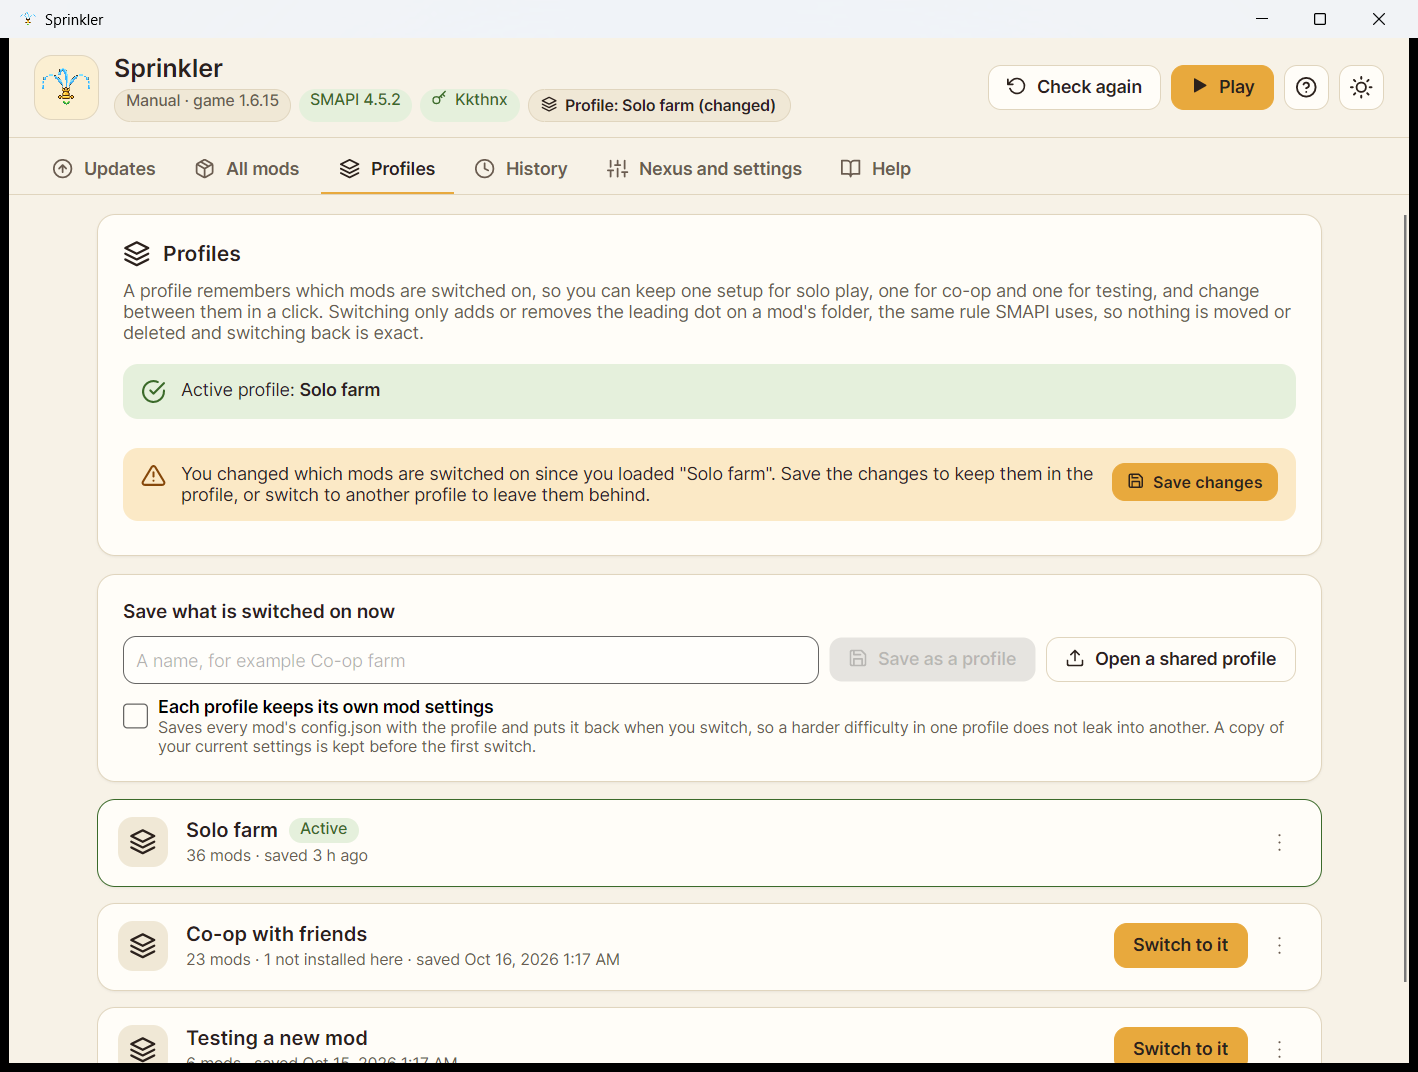
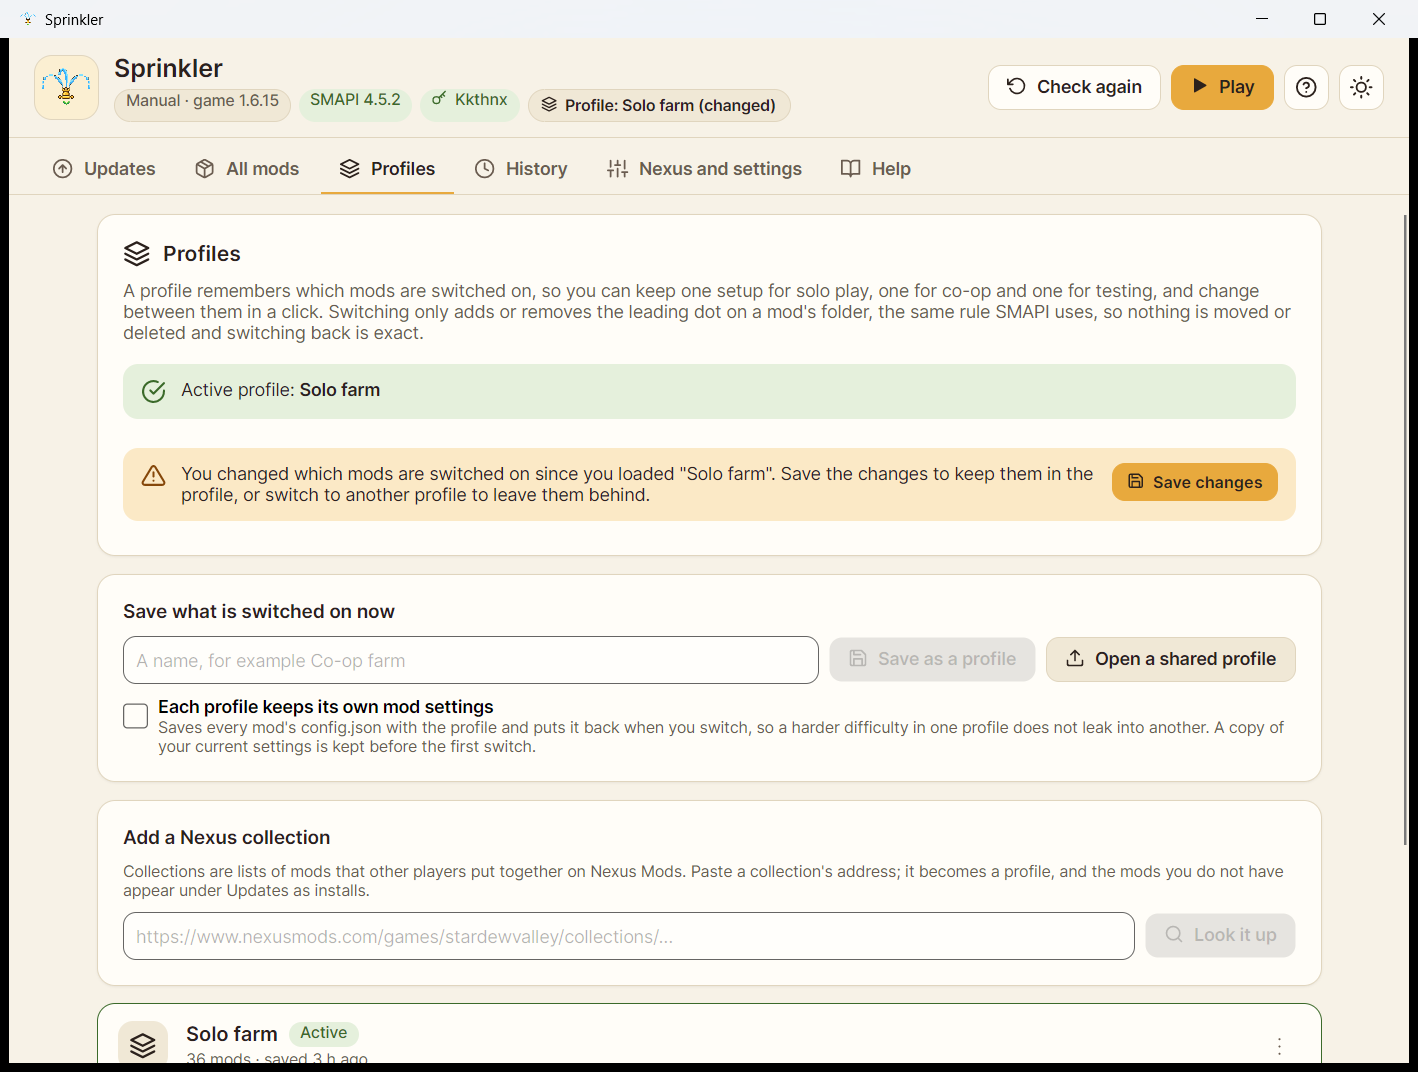
Add the Nexus collection screen
The Profiles tab has an Add a Nexus collection box. Pasting an address
and pressing Look it up shows a preview with the collection's name,
curator, summary, how many mods it holds and how many are already
installed, plus a checkbox for the optional mods and a plain sentence
about what will appear under Updates. Cancel adds nothing. A collection
profile is marked with its curator and shows how many mods are left to
install, and its menu can stop offering the rest.

The query was checked against the live Nexus API: the exact request
returns a real 71-mod collection with no errors. Four UI tests cover
the preview, cancelling, a bad address and stopping the installs. The
README, FAQ, changelog and architecture page describe collections.

diff --git a/tests/Sprinkler.Tests/UiTests.cs b/tests/Sprinkler.Tests/UiTests.cs
@@ -403,3 +403,120 @@ public class UiTests
         Assert.Equal("Remove my endorsement", row.EndorseText);
     }
 }
+
+public class CollectionUiTests
+{
+    private const string Reply = """
+        {"data":{"collectionRevision":{"revisionNumber":3,"collection":{"name":"Cozy Valley","summary":"A gentle set of mods.","user":{"name":"curator1"}},"modFiles":[
+          {"fileId":10,"optional":false,"file":{"fileId":10,"name":"a","version":"1.0.0","mod":{"modId":100,"name":"Alpha","author":"A"}}},
+          {"fileId":20,"optional":false,"file":{"fileId":20,"name":"b","version":"2.0.0","mod":{"modId":200,"name":"Beta","author":"B"}}},
+          {"fileId":30,"optional":true,"file":{"fileId":30,"name":"c","version":"3.0.0","mod":{"modId":300,"name":"Gamma","author":"C"}}}]}}}
+        """;
+
+    private static async Task<(ProfileServiceTests.Rig Rig, MainViewModel Vm)> StartAsync()
+    {
+        var rig = new ProfileServiceTests.Rig();
+        rig.Web.Handler = (path, _) => path switch
+        {
+            "/smapi" => FakeWeb.Json("[]"),
+            "/graphql" => FakeWeb.Json(Reply),
+            _ => null,
+        };
+        await rig.StartAsync();
+        var vm = new MainViewModel(rig.Service) { Ui = new FakeUi(), SuppressTour = true };
+        vm.Refresh();
+        return (rig, vm);
+    }
+
+    private static async Task SettleAsync(MainViewModel vm, Func<bool> until)
+    {
+        var end = DateTime.UtcNow.AddSeconds(10);
+        while (DateTime.UtcNow < end)
+        {
+            Dispatcher.UIThread.RunJobs();
+            vm.Refresh();
+            if (until())
+                return;
+            await Task.Delay(50);
+        }
+        Assert.True(until(), "The screen never reached the expected state.");
+    }
+
+    [AvaloniaFact]
+    public async Task APastedAddressShowsAPreviewAndAddingMakesAProfile()
+    {
+        var (rig, vm) = await StartAsync();
+        using var _r = rig;
+        Assert.False(vm.CanLookUp);
+        vm.CollectionAddress = "https://www.nexusmods.com/games/stardewvalley/collections/abc123";
+        Assert.True(vm.CanLookUp);
+
+        var lookup = vm.LookUpCollectionCommand.ExecuteAsync(null);
+        await SettleAsync(vm, () => vm.Dialog is CollectionPreviewDialogViewModel);
+        var preview = (CollectionPreviewDialogViewModel)vm.Dialog!;
+        Assert.Equal("Cozy Valley", preview.Title);
+        Assert.Equal("by curator1", preview.Curator);
+        Assert.Contains("2 mods", preview.Counts);
+        Assert.Contains("1 optional mod", preview.Counts);
+        Assert.Contains("2 mods will appear", preview.ToInstallText);
+
+        preview.IncludeOptional = true;
+        Assert.Contains("3 mods will appear", preview.ToInstallText);
+        preview.AddCommand.Execute(null);
+        await lookup;
+        await SettleAsync(vm, () => vm.ProfileList.Count == 1);
+
+        var profile = vm.ProfileList[0];
+        Assert.True(profile.IsCollection);
+        Assert.Equal("Nexus collection by curator1", profile.CollectionText);
+        Assert.Contains("3 to install under Updates", profile.Detail);
+        Assert.Equal("", vm.CollectionAddress);
+        Assert.False(profile.IsActive); // adding never switches mods
+        Assert.Contains(vm.Toasts, t => t.Text.Contains("Cozy Valley"));
+    }
+
+    [AvaloniaFact]
+    public async Task CancellingThePreviewAddsNothing()
+    {
+        var (rig, vm) = await StartAsync();
+        using var _r = rig;
+        vm.CollectionAddress = "abc123";
+        var lookup = vm.LookUpCollectionCommand.ExecuteAsync(null);
+        await SettleAsync(vm, () => vm.Dialog is CollectionPreviewDialogViewModel);
+        ((CollectionPreviewDialogViewModel)vm.Dialog!).CancelCommand.Execute(null);
+        await lookup;
+
+        Assert.Empty(vm.ProfileList);
+        Assert.Equal("abc123", vm.CollectionAddress); // still there to edit
+    }
+
+    [AvaloniaFact]
+    public async Task ABadAddressGivesAMessageNotADialog()
+    {
+        var (rig, vm) = await StartAsync();
+        using var _r = rig;
+        vm.CollectionAddress = "this is not a collection";
+        await vm.LookUpCollectionCommand.ExecuteAsync(null);
+        Assert.Null(vm.Dialog);
+        Assert.Contains(vm.Toasts, t => t.IsBad && t.Text.Contains("Paste the collection"));
+        Assert.False(vm.LookingUp);
+    }
+
+    [AvaloniaFact]
+    public async Task StoppingTheInstallsFromTheMenuClearsThePendingNote()
+    {
+        var (rig, vm) = await StartAsync();
+        using var _r = rig;
+        vm.CollectionAddress = "abc123";
+        var lookup = vm.LookUpCollectionCommand.ExecuteAsync(null);
+        await SettleAsync(vm, () => vm.Dialog is CollectionPreviewDialogViewModel);
+        ((CollectionPreviewDialogViewModel)vm.Dialog!).AddCommand.Execute(null);
+        await lookup;
+        await SettleAsync(vm, () => vm.ProfileList.Count == 1);
+        Assert.True(vm.ProfileList[0].Pending);
+
+        vm.ProfileList[0].StopInstallingCommand.Execute(null);
+        await SettleAsync(vm, () => !vm.ProfileList[0].Pending);
+        Assert.DoesNotContain("to install", vm.ProfileList[0].Detail);
+    }
+}

diff --git a/src/Sprinkler/ViewModels/SmallViewModels.cs b/src/Sprinkler/ViewModels/SmallViewModels.cs
@@ -214,3 +214,68 @@ internal sealed partial class TextPromptDialogViewModel : DialogViewModel
         Close();
     }
 }
+
+/// <summary>Shows what a Nexus collection holds before it is added, and asks whether to include its optional mods.</summary>
+internal sealed partial class CollectionPreviewDialogViewModel : DialogViewModel
+{
+    private readonly TaskCompletionSource<bool?> _result = new();
+
+    public CollectionPreviewDialogViewModel(CollectionPreview preview)
+    {
+        Preview = preview;
+    }
+
+    public CollectionPreview Preview { get; }
+
+    public string Title => Preview.Name;
+    public string Curator => Preview.Curator is null ? "" : "by " + Preview.Curator;
+    public bool HasCurator => Preview.Curator is not null;
+    public string? Summary => Preview.Summary;
+    public bool HasSummary => !string.IsNullOrEmpty(Preview.Summary);
+    public bool HasOptional => Preview.Optional > 0;
+
+    public string Counts
+    {
+        get
+        {
+            var line = $"{Fmt.Plural(Preview.Required, "mod", "mods")}, {Preview.RequiredInstalled} already installed.";
+            if (Preview.Optional > 0)
+                line += $" Plus {Fmt.Plural(Preview.Optional, "optional mod", "optional mods")}.";
+            return line;
+        }
+    }
+
+    public string ToInstallText
+    {
+        get
+        {
+            var missing = Preview.Required - Preview.RequiredInstalled + (IncludeOptional ? Preview.Optional - Preview.OptionalInstalled : 0);
+            return missing == 0
+                ? "Everything in it is already installed. The profile only remembers the list."
+                : $"{Fmt.Plural(missing, "mod", "mods")} will appear under Updates as installs. Nothing is changed until you press Update there.";
+        }
+    }
+
+    public string OptionalText => $"Also add the {Fmt.Plural(Preview.Optional, "optional mod", "optional mods")}";
+
+    [ObservableProperty]
+    [NotifyPropertyChangedFor(nameof(ToInstallText))]
+    private bool _includeOptional;
+
+    /// <summary>Null when cancelled, otherwise whether to include the optional mods.</summary>
+    public Task<bool?> Result => _result.Task;
+
+    [RelayCommand]
+    private void Add()
+    {
+        _result.TrySetResult(IncludeOptional);
+        Close();
+    }
+
+    [RelayCommand]
+    public void Cancel()
+    {
+        _result.TrySetResult(null);
+        Close();
+    }
+}

diff --git a/src/Sprinkler/ViewModels/MainViewModel.Collections.cs b/src/Sprinkler/ViewModels/MainViewModel.Collections.cs
@@ -1,0 +1,62 @@
+using CommunityToolkit.Mvvm.ComponentModel;
+using CommunityToolkit.Mvvm.Input;
+using Sprinkler.Core;
+
+namespace Sprinkler.ViewModels;
+
+// Adding a Nexus collection from the Profiles tab.
+internal sealed partial class MainViewModel
+{
+    [ObservableProperty]
+    [NotifyPropertyChangedFor(nameof(CanLookUp))]
+    private string _collectionAddress = "";
+
+    [ObservableProperty]
+    [NotifyPropertyChangedFor(nameof(CanLookUp), nameof(LookUpText))]
+    private bool _lookingUp;
+
+    public bool CanLookUp => HasGame && !LookingUp && !string.IsNullOrWhiteSpace(CollectionAddress);
+    public string LookUpText => LookingUp ? "Looking it up..." : "Look it up";
+
+    [RelayCommand]
+    private async Task LookUpCollection()
+    {
+        LookingUp = true;
+        try
+        {
+            CollectionRevision collection;
+            try
+            {
+                collection = await _svc.LookUpCollectionAsync(CollectionAddress);
+            }
+            catch (CollectionException ex)
+            {
+                Toast(ex.Message, true);
+                return;
+            }
+
+            var dialog = new CollectionPreviewDialogViewModel(_svc.PreviewCollection(collection));
+            ShowDialog(dialog);
+            var include = await dialog.Result;
+            if (include is null)
+                return;
+
+            var result = _svc.AddCollection(collection, include.Value);
+            Refresh();
+            Toast(result.Error ?? result.Message, result.Error is not null);
+            if (result.Error is null)
+                CollectionAddress = "";
+        }
+        finally
+        {
+            LookingUp = false;
+        }
+    }
+
+    public void StopInstallingCollection(string profileName)
+    {
+        var result = _svc.StopInstalling(profileName);
+        Toast(result.Error ?? result.Message, result.Error is not null);
+        Refresh();
+    }
+}

diff --git a/src/Sprinkler/ViewModels/Content.cs b/src/Sprinkler/ViewModels/Content.cs
@@ -29,6 +29,7 @@ internal static class Content
         new QA("Where are my backups?", $"In the backups folder inside {dataDir}. The History tab lists them with an Undo button, and the app keeps the newest five per mod."),
         new QA("Will it change my settings or saves?", "No. Your config.json files are kept when a mod is updated, and save games are never touched. The one exception is a profile with \"keeps its own mod settings\" turned on, which puts back the settings it saved for that profile when you switch to it."),
         new QA("What is a profile?", "A saved list of which mods are switched on, for example one for solo play and one for co-op. Switching only adds or removes the leading dot on a mod's folder name, which is how SMAPI skips a mod, so nothing is moved or deleted. A shared profile lists mods, names and where to get them, never your settings or folders."),
+        new QA("Can I use a Nexus collection?", "Yes. On the Profiles tab, paste the collection's address from nexusmods.com. Sprinkler reads its mod list, saves it as a profile, and offers the mods you do not have under Updates as installs. It never switches your mods by itself, and the optional mods are only added if you tick the box. With a free Nexus account you click once per mod; with Premium it is automatic."),
         new QA("Can I get a removed mod back?", "Yes. Removing a mod saves a backup of its folder first, and the removal appears in History with an Undo button that restores it with its settings."),
         new QA("How do I remove the app?", $"Delete the program and the folder {dataDir}. If you turned on \"Let this app handle Nexus links\" or added the app to your menu, turn those off first under Nexus and settings."),
     };

diff --git a/src/Sprinkler/ViewModels/ProfileViewModels.cs b/src/Sprinkler/ViewModels/ProfileViewModels.cs
@@ -13,6 +13,9 @@ internal sealed partial class ProfileViewModel(MainViewModel main, ProfileSummar
     public string Name => Info.Name;
     public bool IsActive => Info.IsActive;
     public bool CanSwitch => !Info.IsActive;
+    public bool IsCollection => Info.CollectionName is not null;
+    public string CollectionText => Info.Curator is null ? "Nexus collection" : "Nexus collection by " + Info.Curator;
+    public bool Pending => Info.Pending && Info.ToInstall > 0;
 
     public string Detail
     {
@@ -23,6 +26,8 @@ internal sealed partial class ProfileViewModel(MainViewModel main, ProfileSummar
                 parts.Add($"{Info.MissingCount} not installed here");
             if (Info.ConfigCount > 0)
                 parts.Add($"keeps settings for {Info.ConfigCount}");
+            if (Info.ToInstall > 0 && Info.Pending)
+                parts.Add($"{Info.ToInstall} to install under Updates");
             parts.Add("saved " + Fmt.Ago(Info.Updated));
             return string.Join(" · ", parts);
         }
@@ -48,4 +53,7 @@ internal sealed partial class ProfileViewModel(MainViewModel main, ProfileSummar
 
     [RelayCommand]
     private Task Delete() => main.DeleteProfileAsync(Info.Name);
+
+    [RelayCommand]
+    private void StopInstalling() => main.StopInstallingCollection(Info.Name);
 }

diff --git a/src/Sprinkler/Views/MainWindow.axaml.cs b/src/Sprinkler/Views/MainWindow.axaml.cs
@@ -79,6 +79,10 @@ public partial class MainWindow : Window, IUiServices
                 tour.Finish();
                 e.Handled = true;
                 break;
+            case CollectionPreviewDialogViewModel preview:
+                preview.Cancel();
+                e.Handled = true;
+                break;
             case TextPromptDialogViewModel prompt:
                 prompt.Cancel();
                 e.Handled = true;

diff --git a/src/Sprinkler/ViewModels/MainViewModel.cs b/src/Sprinkler/ViewModels/MainViewModel.cs
@@ -392,6 +392,8 @@ internal sealed partial class MainViewModel : ObservableObject, IDisposable
 
     public void ShowDialog(DialogViewModel dialog)
     {
+        if (Dialog is CollectionPreviewDialogViewModel looking)
+            looking.Cancel();
         if (Dialog is TextPromptDialogViewModel askingText)
             askingText.Cancel();
         if (Dialog is ConfirmDialogViewModel previous)

diff --git a/src/Sprinkler/Views/CollectionPreviewDialogView.axaml.cs b/src/Sprinkler/Views/CollectionPreviewDialogView.axaml.cs
@@ -1,0 +1,8 @@
+using Avalonia.Controls;
+
+namespace Sprinkler.Views;
+
+public partial class CollectionPreviewDialogView : UserControl
+{
+    public CollectionPreviewDialogView() => InitializeComponent();
+}

diff --git a/docs/ARCHITECTURE.md b/docs/ARCHITECTURE.md
@@ -47,6 +47,10 @@ The palette (loam, harvest gold, parchment, sprout, barn red) has a light and a 
 
 A profile is a list of mod IDs. Switching renames mod folders by adding or removing the leading dot, which is the rule SMAPI itself uses to skip a mod. That choice has three effects: nothing is moved out of the Mods folder, nothing needs special permissions (no links, no elevated rights), and switching back is exact. Before a switch it turns on whatever the chosen mods require, and anything a profile lists but is not installed is fed into the same missing-mod flow that the update check already uses, so it appears under Updates as an install. With "keep each profile's settings" on, every mod's `config.json` is saved into the profile when leaving it and written back when entering, and a copy of the current settings is saved first so the first switch cannot lose anything. A shared profile file contains IDs, names, versions and update keys only, is size limited, and every entry is checked when it is read.
 
+## Nexus collections
+
+A collection is read from Nexus's public GraphQL API (its schema is open, and reading a collection needs no key, so a lookup never sends the person's key). The revision gives the name, curator and a list of mods with their Nexus IDs and the file the curator tested. Sprinkler stores that list inside a profile and treats every mod that is not installed as an ordinary new install: the same offers, the same Premium or one-click flow, the same backups. A collection mod's SMAPI ID is not known until its file is opened, so these installs accept the manifests inside the archive, and a file dropped into the Downloads folder is matched to its install by the mod ID Nexus puts in the file name. As each mod arrives it is added to the profile, found through the Nexus update key in its manifest, and the offers stop when nothing is left. Collections are read only: nothing is downloaded or changed until the person presses Update.
+
 ## Mod pictures
 
 `ModArtStore` fetches each mod's picture once and keeps it on disk for two weeks (three days when a mod has none). Nexus mod pages expose a `picture_url` through the API the person's own key already uses, GitHub mods use the owner's avatar, and everything else shows a steady coloured initial. Only bytes that start like a PNG, JPEG, GIF or WebP are stored, files over 2 MB are refused, the final address after redirects must still be on an allowed site, and a rate limit pauses fetching for half an hour. Nothing about updating depends on pictures.

diff --git a/README.md b/README.md
@@ -56,6 +56,7 @@ It also finds required mods that are missing (the ones SMAPI skips without a cle
 ## Profiles, notes and more
 
 - **Profiles.** Save which mods are switched on as a named profile (solo, co-op, testing) and switch between them in a click. Switching only adds or removes the leading dot on a mod's folder, the rule SMAPI itself uses, so nothing is moved or deleted and switching back is exact. It also turns on whatever the chosen mods need. An optional setting keeps each profile's own `config.json` files, with a copy of your current settings saved before the first switch.
+- **Nexus collections.** Paste the address of a collection from Nexus Mods and it becomes a profile. Sprinkler reads the curator's mod list (no account needed to look it up), shows how much of it you already have, and offers the missing mods under Updates as installs, so a Premium account is automatic and a free account clicks once per mod. Adding a collection never switches your mods by itself.
 - **Share a profile.** Save a profile as a small file that lists mods, versions and where to get them (never your settings or folders). When a friend opens it, the mods they do not have show up under Updates as installs.
 - **Remove with undo.** Removing a mod backs up its folder first and shows it in History with an Undo button that brings it back with its settings.
 - **Notes and endorsing.** Keep a private note on any mod, open its settings file, and endorse mods on Nexus from the app (through your own key).

diff --git a/CHANGELOG.md b/CHANGELOG.md
@@ -17,6 +17,7 @@ First public build.
 - First-run tour, built-in help and FAQ, light and dark looks that follow your system, and a Report a problem button that copies details for an issue.
 - Reads SMAPI's log from your last game session and lists the mods it skipped, with SMAPI's reason and what to do about it.
 - Switch a mod off or on from the All mods tab. A warning lists any mods that need it.
+- Nexus collections: paste a collection's address to add it as a profile, see how much of it you have, and install the rest through the normal update flow.
 - Profiles: save which mods are switched on, switch between profiles in a click, share a profile as a small file, and optionally keep each profile's own mod settings. Mods a shared profile lists but you do not have appear under Updates as installs.
 - Remove a mod with a backup and an Undo button in History. Keep private notes on mods, open a mod's settings file, and endorse mods on Nexus.
 - Content packs are shown under the mod they belong to, and a Has settings filter finds mods with a config.json.
